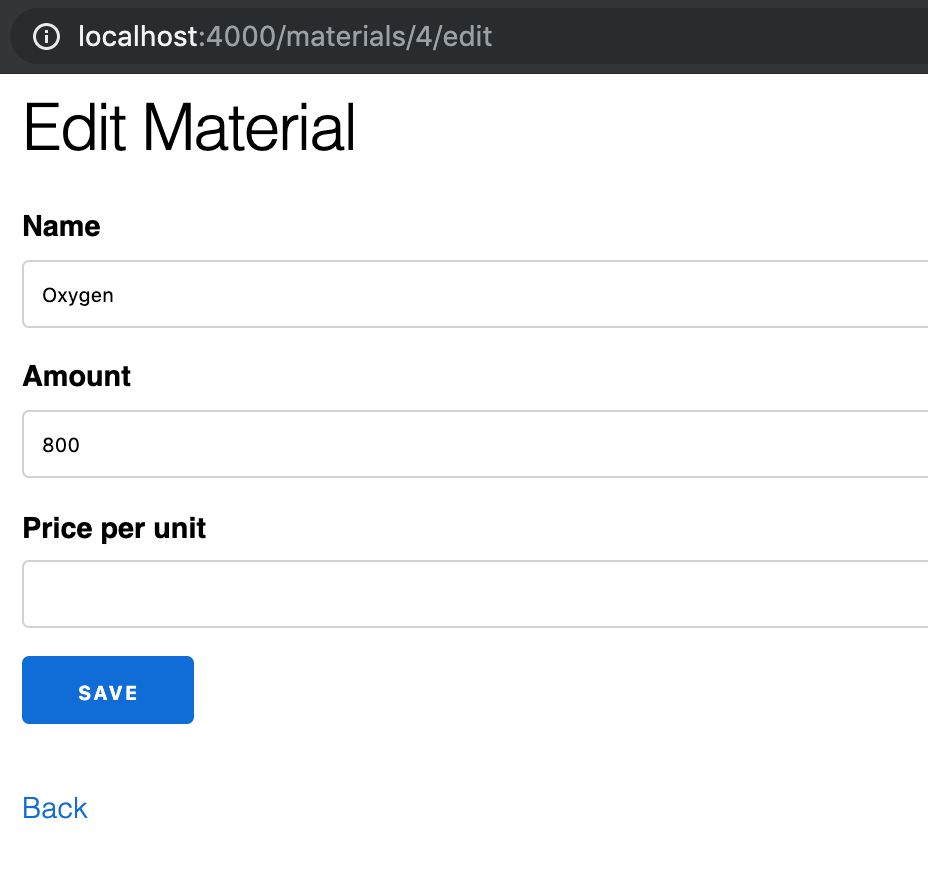
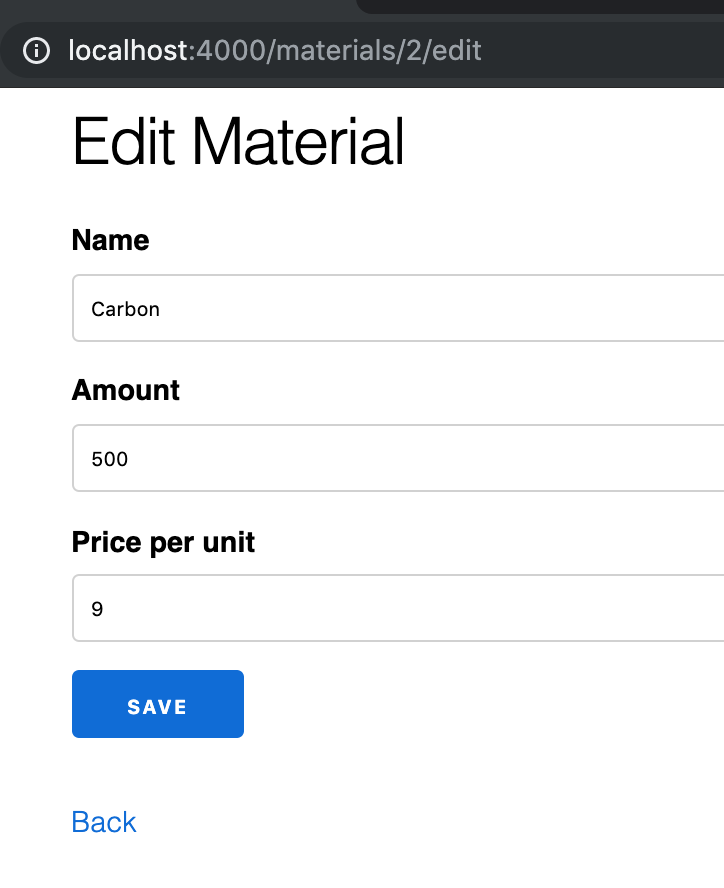
more images in 3.x

diff --git a/lib/book/contents/3- Generating a Resource/7- Adding a Field.md b/lib/book/contents/3- Generating a Resource/7- Adding a Field.md
@@ -182,7 +182,7 @@ We're going to copy the code for `:amount` and just change the atom used to `:pr
 
 Now we've got it displaying the price.
 
-![](../images/3.7/updated-form.png)
+![](../images/3.7/updated-form.png){ width=40% }
 
 ## Price on the show page
 
@@ -211,6 +211,8 @@ To add the price to the show page, we'll extend the pattern we've used for the o
 ```
 
 There's no new concepts here, we're just repeating the pattern with our new field.
+
+![](../images/3.7/show-material.png){ width=40% }
 
 ## Price on the Index page
 
@@ -250,6 +252,8 @@ To add the price to the Index page, we'll add to our loop a table data cell (`td
 ```
 
 Once again, there are no new concepts in this code.  This is the logical extension of the way we've displayed data in the table before.
+
+![](../images/3.7/list-materials.png){ width=60% }
 
 ## Conclusion
 

diff --git a/lib/book/contents/3- Generating a Resource/5- Creating a Material.md b/lib/book/contents/3- Generating a Resource/5- Creating a Material.md
@@ -24,6 +24,10 @@ If defined separately, they would look like this:
 
 `create` is a `post`, and it will change the database (adding an item), add a flash message, and then redirect.  In that way, it'll work kind of like `delete`.
 
+The `create` function does not have an associated page, but the `new` page will look like this:
+
+![](../images/3.1/new-material.png){ width=60% }
+
 ## The `new` Controller Function
 
 Let's take a look at the `new` function in `MaterialController`.
